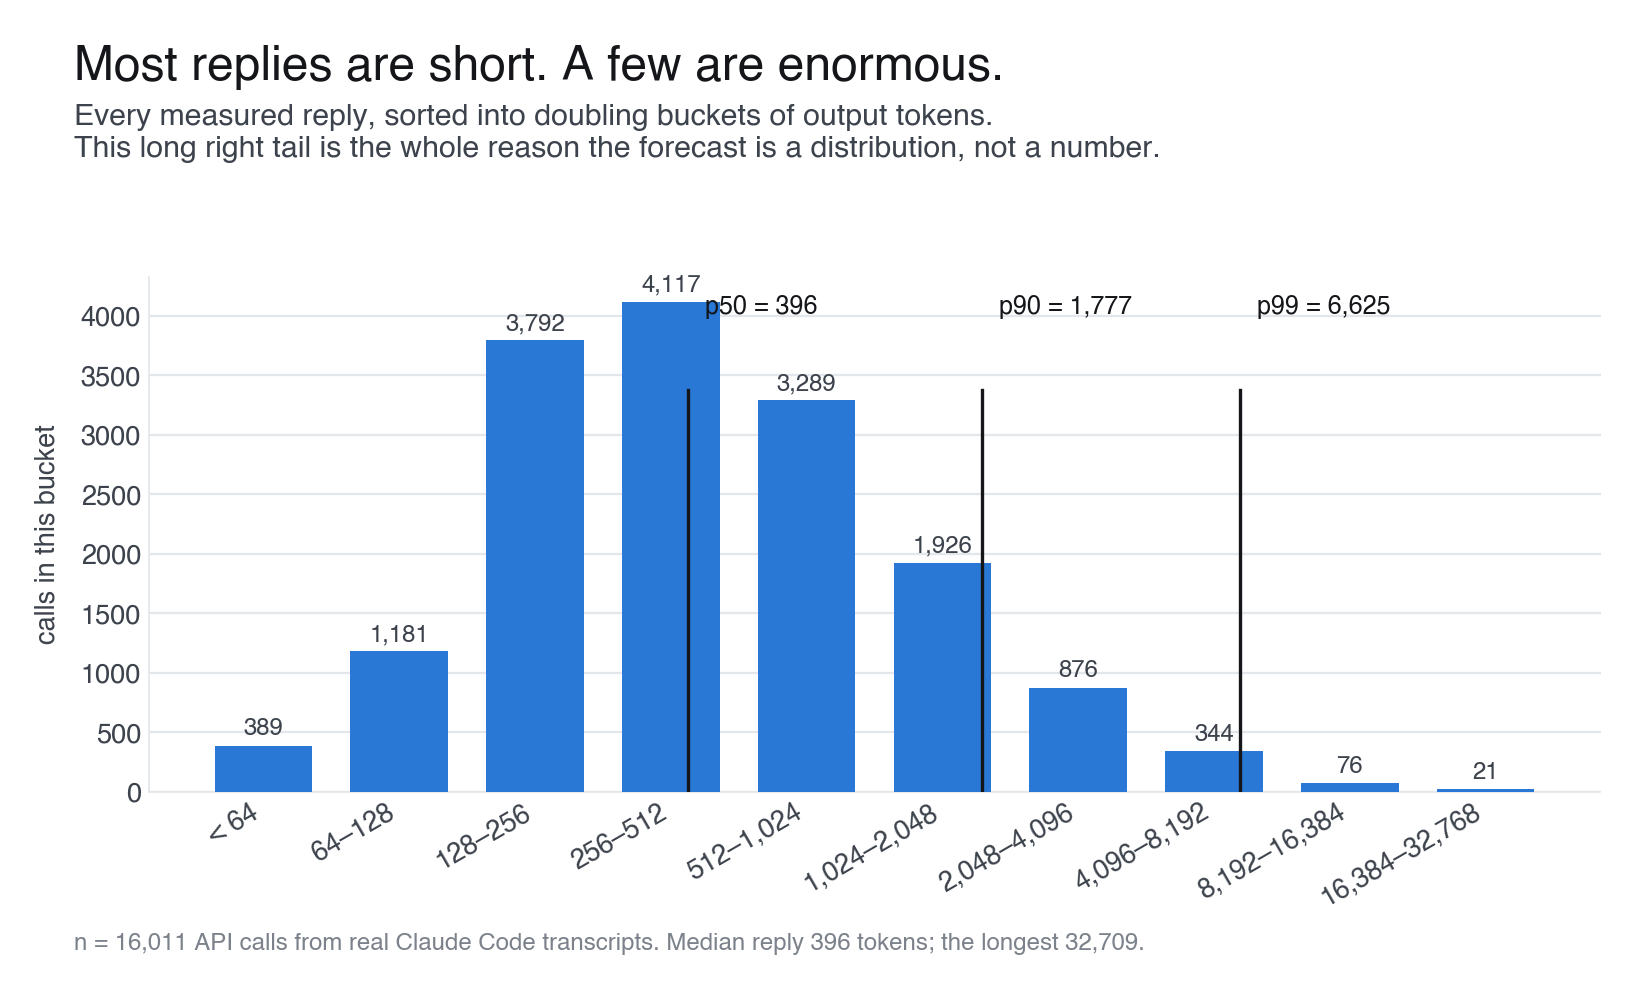
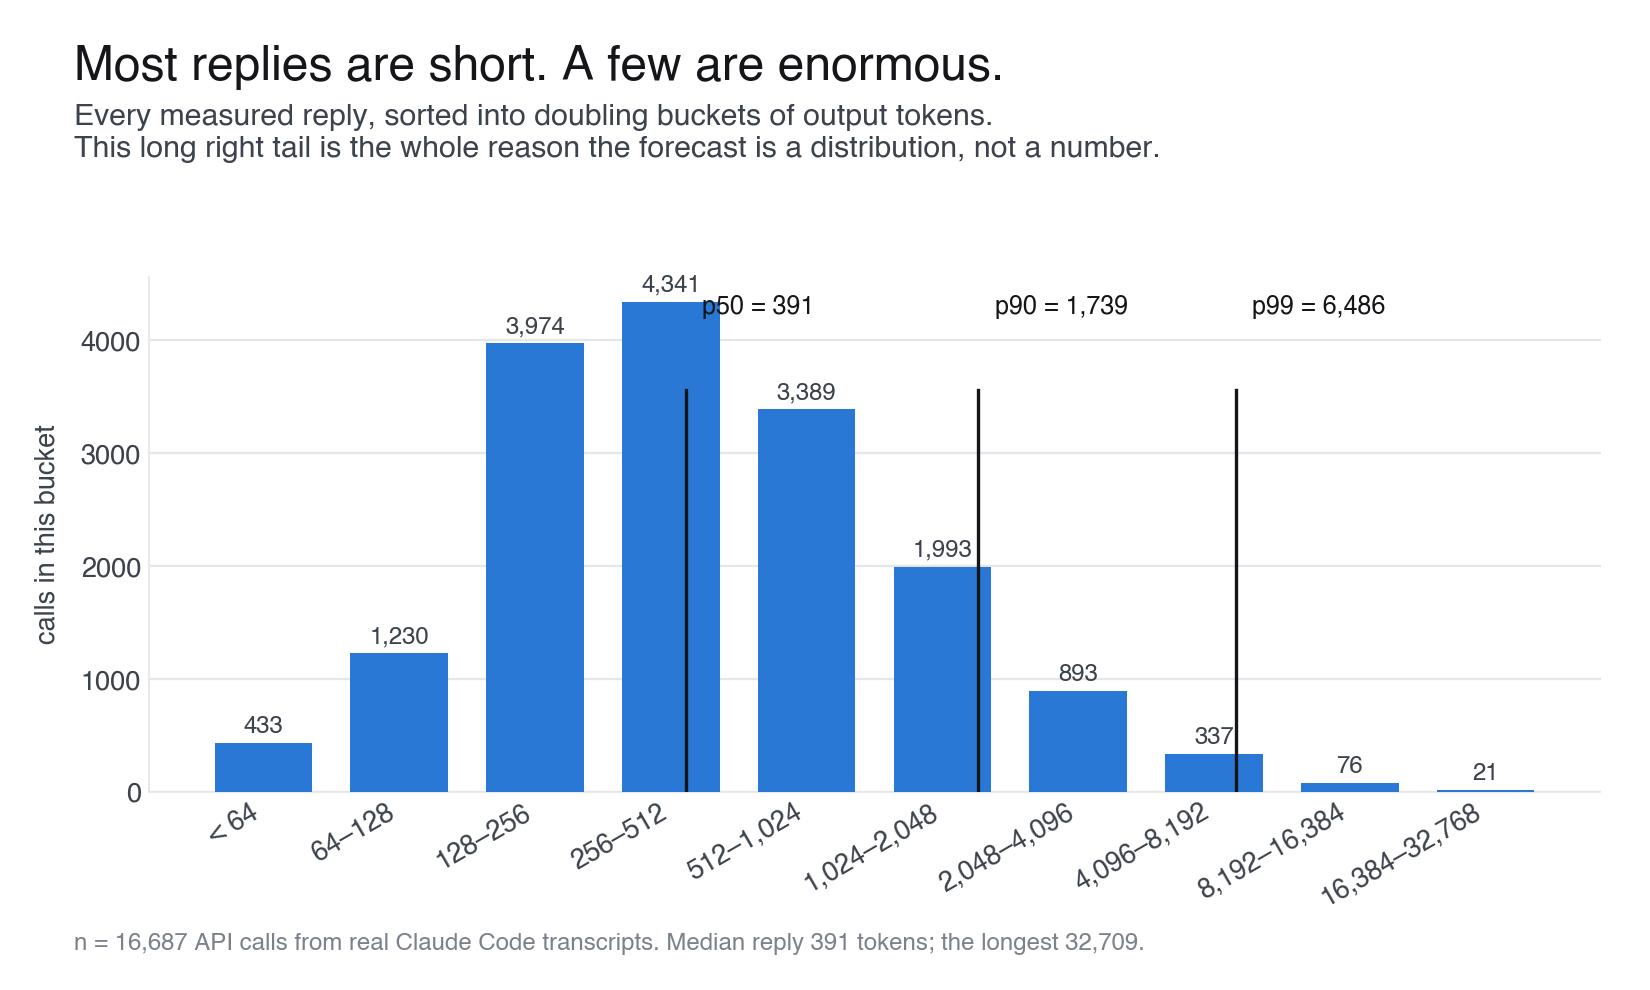
docs: regenerate the artifact-driven charts, and say what the last rung shows
The committed charts were rendered from the 9-10 August run while the artifacts
beside them are from the 12th, so every figure in them disagreed with the JSON
in the same commit. Regenerating from make-readme-data.py and make-accuracy.py
makes the images match the data the README now quotes (n = 16,687, p50 391,
p90 1,739, p99 6,486).

Doing that surfaces something the stale chart was hiding: on the chronological
split the boosted correction scores 522 against the thinking rung's 520, so the
ladder is not monotonic and the old title ('every signal earns its place') no
longer describes its own last bar. Rather than drop the rung, both the chart and
the README now say it plainly - the boost's win is real but small and lives on
the rolling comparison (-17.4 per call, CI [-26.5, -8.4]), which is the number
the adoption gate scored.

diff --git a/docs/report-assets/make-accuracy.py b/docs/report-assets/make-accuracy.py
@@ -147,11 +147,12 @@ def loss_ladder():
     frame(ax)
 
     cut = (1 - best / worst) * 100
-    titles(fig, "Every signal it uses earns its place",
+    titles(fig, "Each signal had to earn its place",
            "Error per call as the predictor is given more to work with. Each rung "
            "adds one input.\nThe shipped predictor is the blue bar.",
            f"Same held-out calls for every rung. Total cut against fixed numbers: "
-           f"{cut:.0f}%.")
+           f"{cut:.0f}%. On this split the last rung is a wash; "
+           f"its win is on the rolling comparison, not here.")
     save(fig, "accuracy-loss-ladder.png")
 
 

diff --git a/README.md b/README.md
@@ -105,8 +105,13 @@ predictor never trained on, they do:
 ![Coverage vs promise at p50, p90, and p99](docs/report-assets/accuracy-calibration.png)
 
 Each input the predictor uses had to earn its place. Starting from fixed
-numbers with no model at all, every added signal cuts the error, and the full
-shipped predictor cuts it 41 percent:
+numbers with no model at all, learning from history, then the model id, then
+the thinking flag each cut the error, and the shipped predictor lands 41 percent
+below where it started. The last rung is the honest part: on this single
+chronological split the trained correction is a wash against the rung below it
+(522 against 520). Its win is real but small, and it shows up on the rolling
+comparison rather than here: -17.4 per call, CI [-26.5, -8.4], which is what
+the adoption gate actually scored.
 
 ![Error falling as each signal is added](docs/report-assets/accuracy-loss-ladder.png)
 
